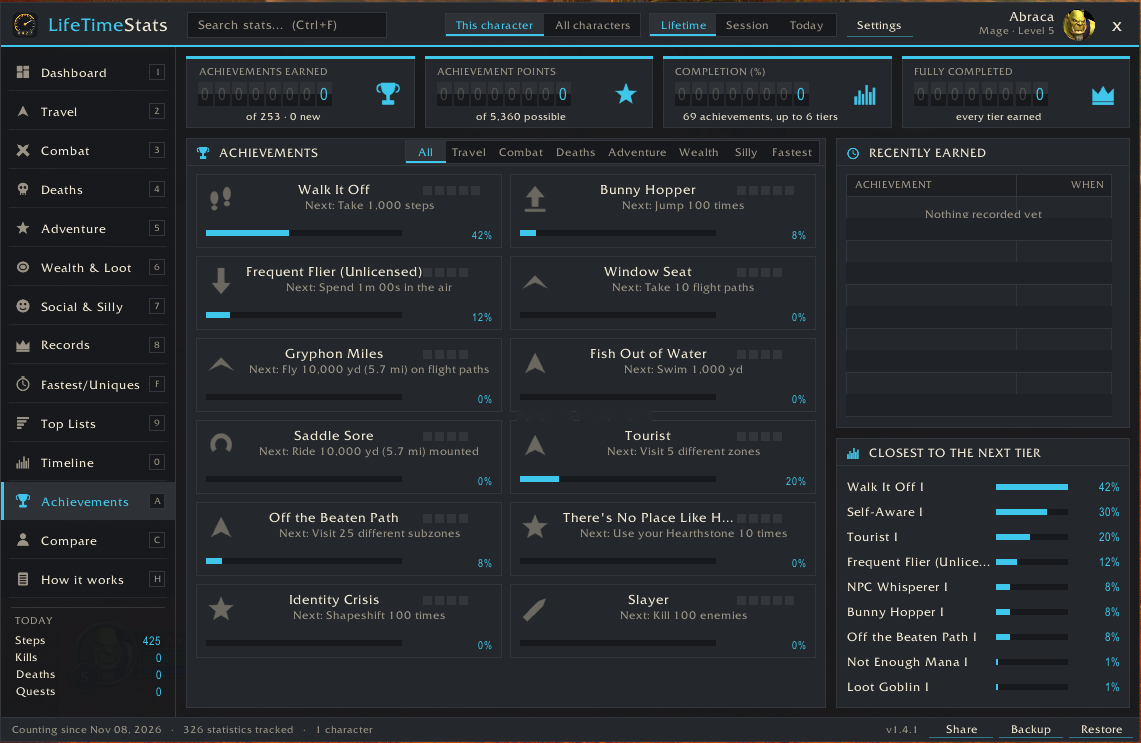
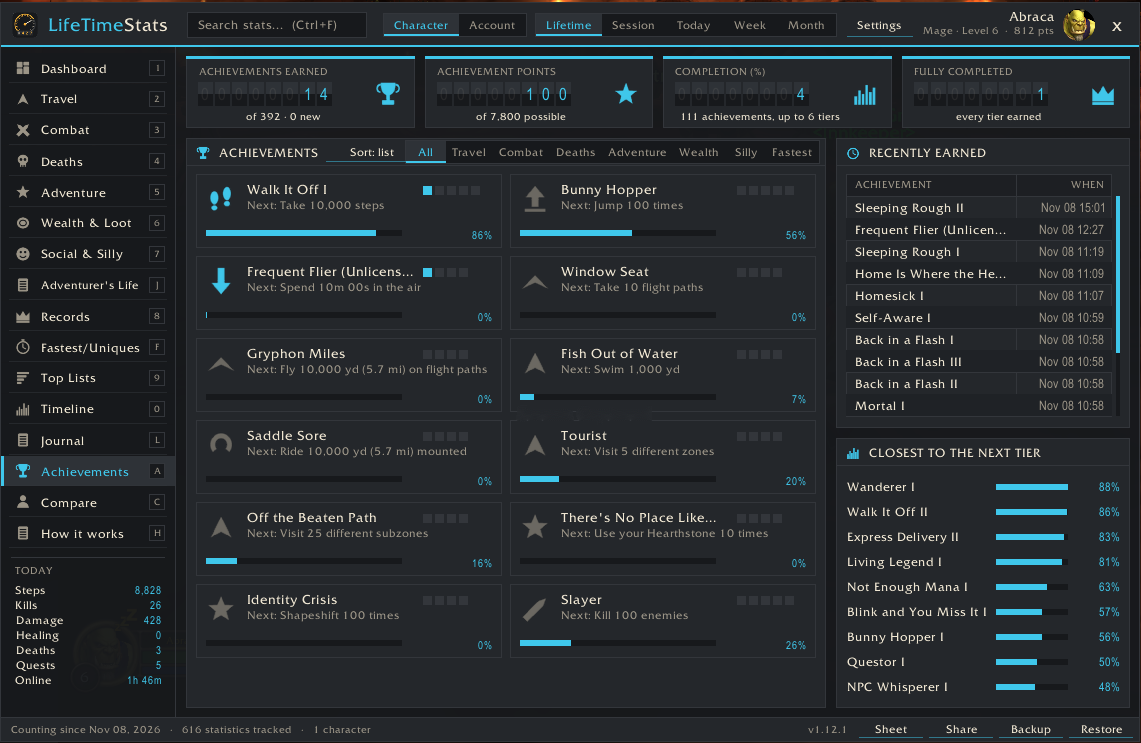
README: replace screenshots with 16 v1.12.1 captures (every page)
Claude-Session: https://claude.ai/code/session_016hSe4dKqV1w77GKR74tBKX

diff --git a/README.md b/README.md
@@ -12,17 +12,20 @@ Lifetime statistics for your character in **World of Warcraft: Forever**. Instal
 ![Dashboard](https://raw.githubusercontent.com/SeanShaffer88/LifeTimeStats/main/docs/screenshots/dashboard.png)
 
 <details>
-<summary><b>More screenshots</b></summary>
+<summary><b>More screenshots (every page)</b></summary>
 
 | | |
 |---|---|
-| ![Top Lists](https://raw.githubusercontent.com/SeanShaffer88/LifeTimeStats/main/docs/screenshots/top-lists.png) Top Lists | ![What hurt you most](https://raw.githubusercontent.com/SeanShaffer88/LifeTimeStats/main/docs/screenshots/what-hurt-you.png) What hurt you most (damage meter) |
-| ![Achievements](https://raw.githubusercontent.com/SeanShaffer88/LifeTimeStats/main/docs/screenshots/achievements.png) Achievements | ![Records](https://raw.githubusercontent.com/SeanShaffer88/LifeTimeStats/main/docs/screenshots/records.png) Records |
-| ![Fastest and uniques](https://raw.githubusercontent.com/SeanShaffer88/LifeTimeStats/main/docs/screenshots/fastest-uniques.png) Fastest & Uniques | ![Wealth and loot](https://raw.githubusercontent.com/SeanShaffer88/LifeTimeStats/main/docs/screenshots/wealth.png) Wealth & Loot |
-| ![Social and silly](https://raw.githubusercontent.com/SeanShaffer88/LifeTimeStats/main/docs/screenshots/social.png) Social & Silly | ![Timeline](https://raw.githubusercontent.com/SeanShaffer88/LifeTimeStats/main/docs/screenshots/timeline.png) Timeline |
-| ![How it works](https://raw.githubusercontent.com/SeanShaffer88/LifeTimeStats/main/docs/screenshots/how-it-works.png) How it works | |
+| ![Travel](https://raw.githubusercontent.com/SeanShaffer88/LifeTimeStats/main/docs/screenshots/travel.png)<br>Travel | ![Combat](https://raw.githubusercontent.com/SeanShaffer88/LifeTimeStats/main/docs/screenshots/combat.png)<br>Combat |
+| ![Deaths](https://raw.githubusercontent.com/SeanShaffer88/LifeTimeStats/main/docs/screenshots/deaths.png)<br>Deaths | ![Adventure](https://raw.githubusercontent.com/SeanShaffer88/LifeTimeStats/main/docs/screenshots/adventure.png)<br>Adventure |
+| ![Wealth & Loot](https://raw.githubusercontent.com/SeanShaffer88/LifeTimeStats/main/docs/screenshots/wealth.png)<br>Wealth & Loot | ![Social & Silly](https://raw.githubusercontent.com/SeanShaffer88/LifeTimeStats/main/docs/screenshots/social.png)<br>Social & Silly |
+| ![Adventurer's Life](https://raw.githubusercontent.com/SeanShaffer88/LifeTimeStats/main/docs/screenshots/adventurers-life.png)<br>Adventurer's Life | ![Records](https://raw.githubusercontent.com/SeanShaffer88/LifeTimeStats/main/docs/screenshots/records.png)<br>Records |
+| ![Fastest & Uniques](https://raw.githubusercontent.com/SeanShaffer88/LifeTimeStats/main/docs/screenshots/fastest-uniques.png)<br>Fastest & Uniques | ![Top Lists](https://raw.githubusercontent.com/SeanShaffer88/LifeTimeStats/main/docs/screenshots/top-lists.png)<br>Top Lists |
+| ![Timeline](https://raw.githubusercontent.com/SeanShaffer88/LifeTimeStats/main/docs/screenshots/timeline.png)<br>Timeline | ![Journal](https://raw.githubusercontent.com/SeanShaffer88/LifeTimeStats/main/docs/screenshots/journal.png)<br>Journal |
+| ![Achievements](https://raw.githubusercontent.com/SeanShaffer88/LifeTimeStats/main/docs/screenshots/achievements.png)<br>Achievements | ![Compare](https://raw.githubusercontent.com/SeanShaffer88/LifeTimeStats/main/docs/screenshots/compare.png)<br>Compare |
+| ![How it works](https://raw.githubusercontent.com/SeanShaffer88/LifeTimeStats/main/docs/screenshots/how-it-works.png)<br>How it works |  |
 
-The dashboard is from 1.10; the other captures are from versions 1.7 to 1.9 (Mage, level 5–6, class-colour accent). Later versions add the Legend card, Week/Month ranges, themes and the dungeon book.
+In-game captures from version 1.12.1 (Mage, level 6, class-colour accent).
 </details>
 
 ## Download
